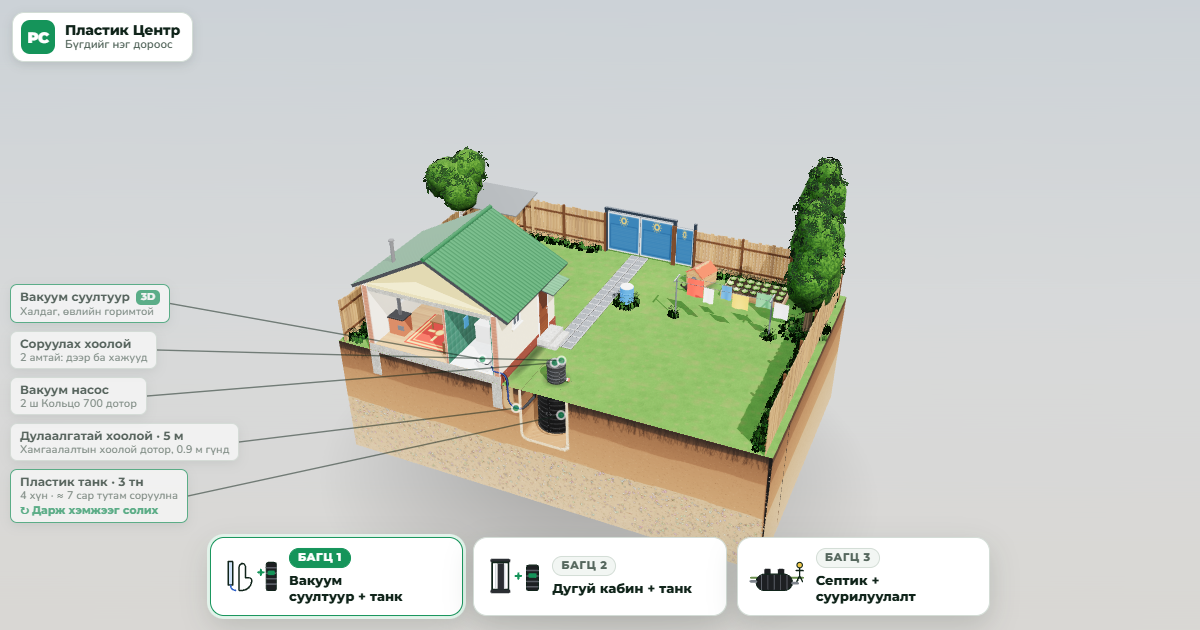
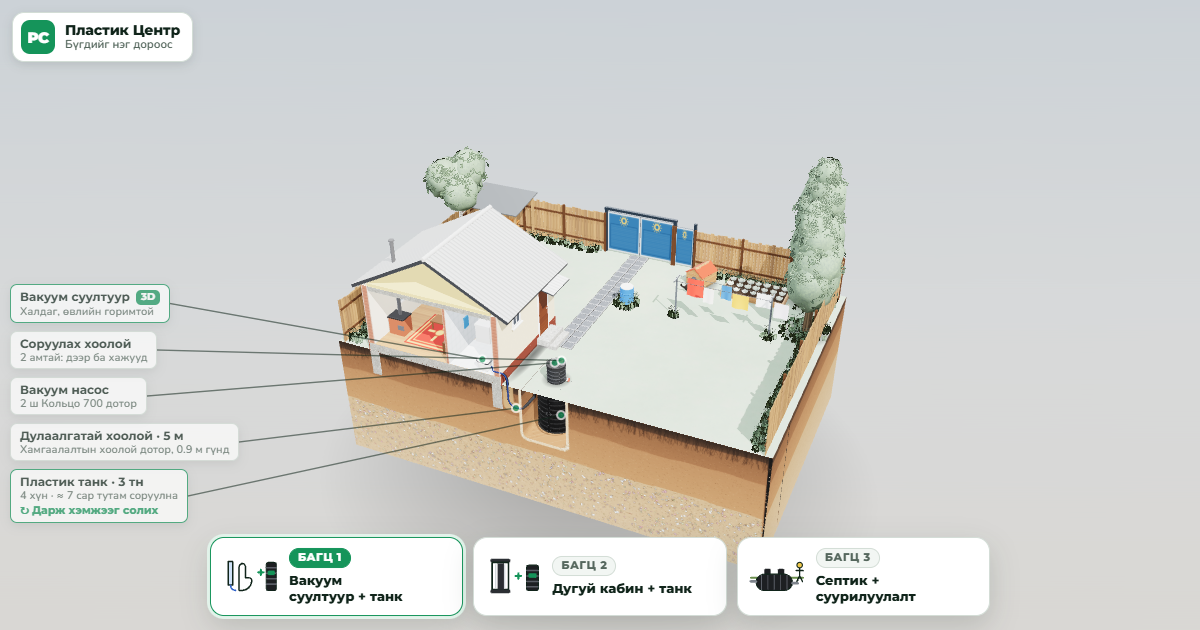
Give the 3D yard a winter look
Repaint the lawn, roofs and foliage as snow once the yard is built, and
replace the Facebook preview image with the winter scene. The brand logo
and the wastewater flow colours are left unchanged.

Changed region(s): [[0.2775, 0.2413, 0.7092, 0.7238], [0.2775, 0.5127, 0.3083, 0.573]]

diff --git a/index.html b/index.html
@@ -2233,6 +2233,19 @@ applyTheme();{const mq=matchMedia('(prefers-color-scheme: dark)');if(mq.addEvent
 
 // ===================== START =====================
 resize();
+// ---------- winter look: lawn, roofs and foliage are repainted as snow once the yard is built ----------
+try{
+ const green=(r,g,b)=>g>r*1.04&&g>b*1.08,SNOW=new THREE.Color(0xf2f7fb),done=new Set();
+ const paint=(img,amt)=>{const c=img&&img.getContext&&img.getContext('2d');if(!c)return;const d=c.getImageData(0,0,img.width,img.height),p=d.data;
+  for(let i=0;i<p.length;i+=4){if(p[i+3]<8||p[i+1]<30||!green(p[i],p[i+1],p[i+2]))continue;const s=222+(p[i]*.3+p[i+1]*.59+p[i+2]*.11)/255*33;p[i]+=(s-5-p[i])*amt;p[i+1]+=(s-p[i+1])*amt;p[i+2]+=(Math.min(255,s+10)-p[i+2])*amt;}
+  c.putImageData(d,0,0);};
+ const tint=(a,amt)=>{if(!a||done.has(a))return;done.add(a);for(let i=0;i<a.count;i++){const r=a.getX(i),g=a.getY(i),b=a.getZ(i);if(green(r,g,b))a.setXYZ(i,r+(.88-r)*amt,g+(.92-g)*amt,b+(.96-b)*amt);}a.needsUpdate=true;};
+ scene.traverse(o=>{if(!o.isMesh)return;let std=false;
+  for(const m of [].concat(o.material||[])){if(!m.isMeshStandardMaterial||m===M.pc)continue;std=true;const amt=(m.alphaTest||m.vertexColors)?0.62:0.95;
+   if(m.map&&m.map.image&&!done.has(m.map.image)){done.add(m.map.image);paint(m.map.image,amt);m.map.needsUpdate=true;}
+   if(!done.has(m)){done.add(m);if(m.color&&green(m.color.r,m.color.g,m.color.b))m.color.lerp(SNOW,amt);}}
+  if(std){if(o.geometry&&o.geometry.attributes)tint(o.geometry.attributes.color,0.62);tint(o.instanceColor,0.62);}});
+}catch(e){console.warn('winter look skipped',e);}
 for(let k=1;k<=3;k++)PK[k].G.visible=true;
 try{renderer.compile(scene,cam);}catch(e){}
 PK[2].G.visible=false;PK[3].G.visible=false;
